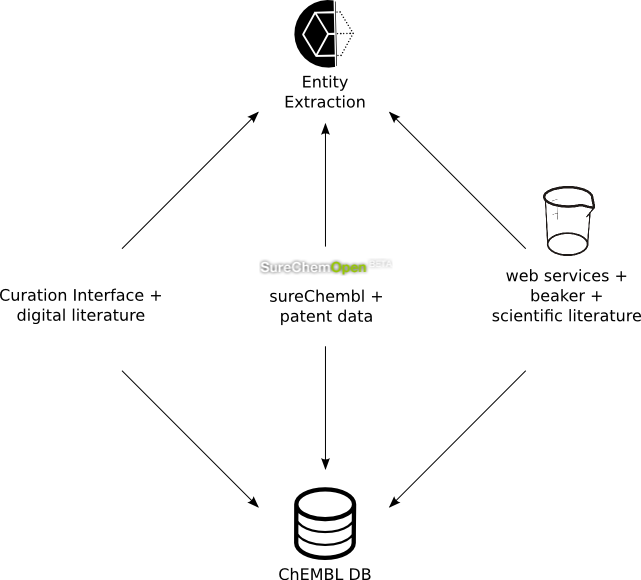
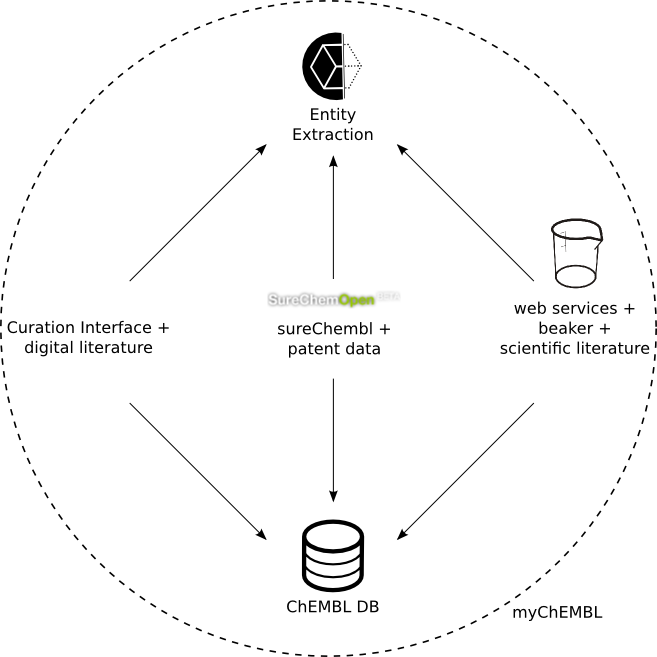
overview changed

diff --git a/presentations/sureChEMBL/index.html b/presentations/sureChEMBL/index.html
@@ -38,6 +38,14 @@
         <small>Michał Nowotka<br/>ChEMBL Group<br/>EMBL-EBI</small>
     </p>
 </section>
+<section>
+    <h3>Overview</h3>
+
+    <p>
+        <img src="img/over.png" width="55%"/>
+    </p>
+
+</section>
 <section data-background="img/ebi.png" data-background-size="60%" data-background-color="white">
     <h3 style="float:right;">EMBL-EBI Resources</h3>
 
